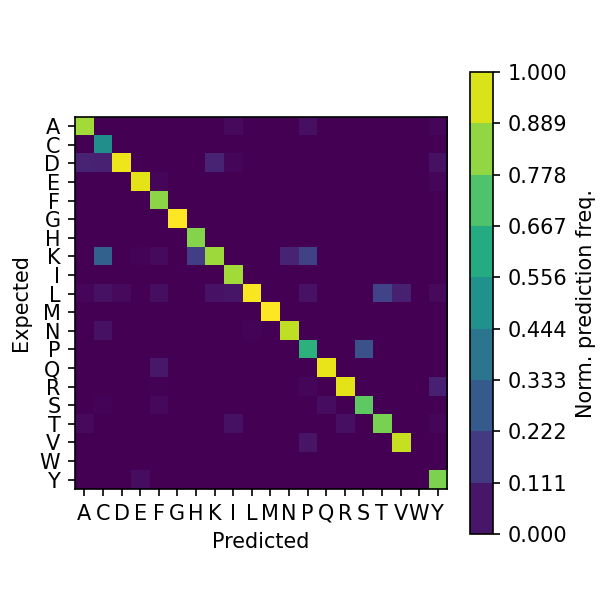
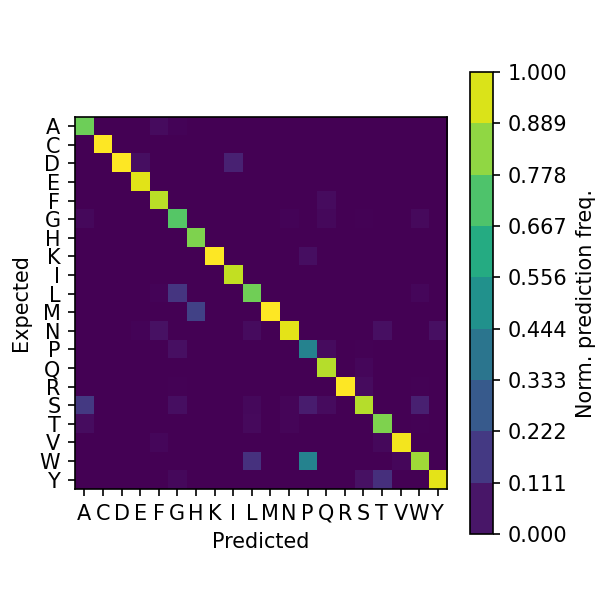
FIxed missing tryptophan in test_dataset

diff --git a/AminoX.py b/AminoX.py
@@ -79,8 +79,12 @@ def main():
             print("{}/{}: loss = {}".format(epoch_idx,args.n_epochs,l_mean)) 
 
     plot_losses(Loss_average, args.output_directory)
-            
+
+    # Evaluate model
+
     print("Evaluation:")
+
+    # Initialize prediction matrix
     prediction_matrix = []
     for a1 in all_amino:
         prediction_matrix.append([])
@@ -90,7 +94,7 @@ def main():
     for a2 in all_amino:
         n_predictions_per_amino[a2] = 0
 
-    net.eval() #TODO 
+    net.eval() 
     count = 0
     rate = 0.
     for test in test_dataset:
@@ -103,6 +107,7 @@ def main():
             prediction_matrix[all_amino.index(predicted_amino)][all_amino.index(expected_amino)] += 1
             n_predictions_per_amino[expected_amino] += 1
 
+    # Normalize elements of prediction matrix 
     for a1 in all_amino:
         for a2 in all_amino:
             if n_predictions_per_amino[a2] != 0 : prediction_matrix[all_amino.index(a1)][all_amino.index(a2)] /= n_predictions_per_amino[a2]

diff --git a/src/functions.py b/src/functions.py
@@ -2,6 +2,7 @@ import torch
 import torchtext
 #from torchinfo import summary
 import collections
+import random
 
 all_amino=['A','C','D','E','F','G','H','K','I','L','M','N','P','Q','R','S','T','V','W','Y'] #all aminoacids in alphabetical order
 
@@ -26,7 +27,7 @@ def load_dataset(inputfile, remove_n, max_input_data, max_eval_data, ntoks):
             sequences.append(line.replace('\n','').replace('n','').replace('X',''))
         else:
             sequences.append(line)
-    half_Nwanted=len(sequences)
+    random.shuffle(sequences)
 
     all_data=[]
     ndata=0
@@ -44,7 +45,8 @@ def load_dataset(inputfile, remove_n, max_input_data, max_eval_data, ntoks):
     train_data=[]
     test_data=[]
     for i in range(len(all_data)):
-        if (i<max_input_data):
+        if (i < max_input_data):
+        #if (i > max_eval_data):
             train_data.append(all_data[i])
         else:
             test_data.append(all_data[i])

diff --git a/src/model.py b/src/model.py
@@ -1,5 +1,4 @@
 from functions import *
-import random
 
 device = torch.device("cuda" if torch.cuda.is_available() else "cpu")
 
